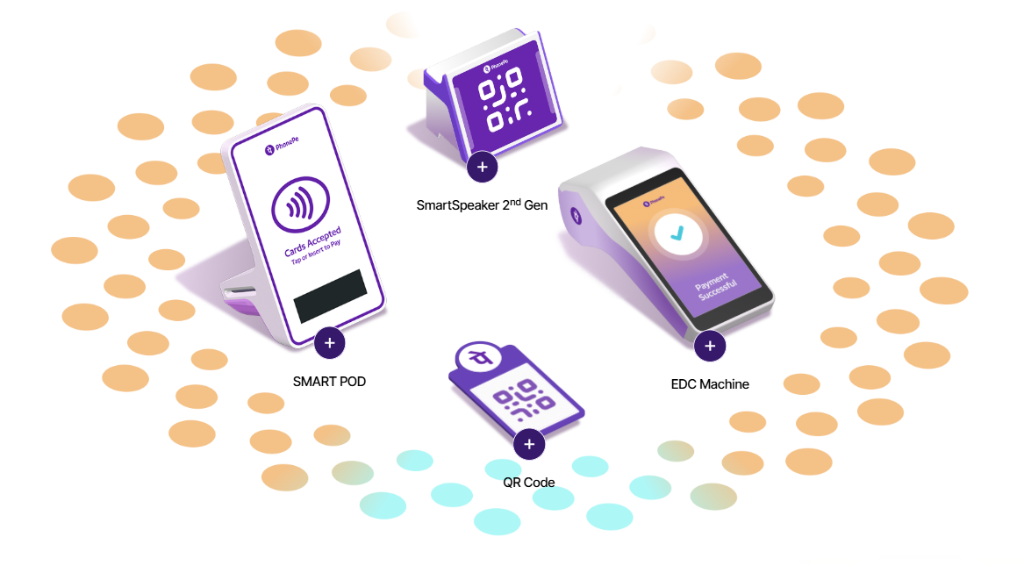
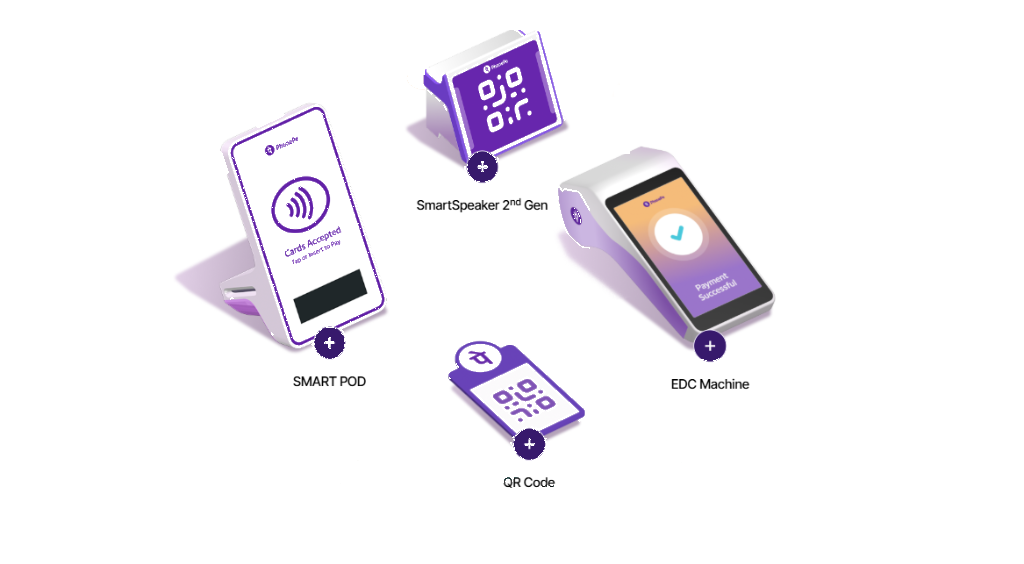
fix: complete back-side circles behind SmartSpeaker and eliminate raster double-circle ghosting

diff --git a/frontend/src/components/InteractiveHardwareStage.jsx b/frontend/src/components/InteractiveHardwareStage.jsx
@@ -77,79 +77,91 @@ export default function InteractiveHardwareStage() {
     }
   };
 
-  // Master 67 small circles extracted from the ecosystem artwork including all top and boundary circles: [cx, cy, rx, ry, isCyan]
+  // Master 74 circles forming complete concentric rings around the stage, including full back-side arc behind SmartSpeaker: [cx, cy, rx, ry]
   const ecosystemCircles = [
-    // Top faint circles around and above SmartSpeaker
-    [400.5, 25.5, 18, 14, 0],
-    [649.0, 34.9, 16, 12, 0],
-    [297.9, 42.7, 24, 14, 0],
-    [370.2, 58.9, 23, 13.5, 0],
-    [411.1, 78.2, 15, 10.5, 0], // SmartSpeaker top-left shoulder
-    [737.9, 65.6, 24, 14, 0],
-    [671.5, 71.7, 23.5, 14, 0],
-    [667.1, 69.0, 22, 13.5, 0], // SmartSpeaker top-right cluster
-    [617.8, 90.0, 16, 10.5, 0], // SmartSpeaker top-right shoulder
-    [686.4, 96.8, 22, 13, 0],   // SmartSpeaker right inner
-    [213.0, 76.7, 24.5, 14, 0],
-    [287.4, 83.2, 22, 13, 0],
-    [347.8, 95.0, 20, 12, 0],
-    [820.4, 105.4, 24, 14, 0],
-    [759.1, 108.9, 22, 13, 0],
-    [685.2, 108.8, 20, 12, 0],
-    [212.4, 121.9, 22, 13, 0],
-    [266.6, 117.7, 15, 8.5, 0],
-    [140.3, 126.2, 24, 14, 0],
-    [754.9, 145.1, 20, 12, 0],
-    [824.9, 149.7, 22, 13, 0],
-    [891.7, 161.4, 24, 14, 0],
-    [211.5, 163.3, 16, 11.5, 0],
-    [155.9, 172.4, 22, 13, 0],
-    [91.1, 187.2, 24, 14, 0],
-    [805.2, 185.7, 20, 12, 0],
-    [877.3, 204.0, 22, 13, 0],
-    [180.7, 208.0, 20, 12, 0],
-    [930.7, 225.4, 24, 14, 0],
-    [128.1, 226.5, 22, 13, 0],
-    [841.2, 235.7, 20, 12, 0],
-    [74.0, 249.9, 24, 14, 0],
-    [166.3, 259.2, 20, 12, 0],
-    [899.3, 263.0, 22, 13, 0],
-    [124.2, 285.9, 22, 13, 0],
-    [851.0, 287.4, 20, 12, 0],
-    [943.4, 290.3, 25, 15, 0],
-    [176.4, 309.9, 20, 12, 0],
-    [84.8, 316.5, 24, 14, 0],
-    [897.6, 321.1, 23, 13.5, 0],
-    [838.2, 337.1, 20, 12, 0],
-    [147.6, 342.7, 22, 13, 0],
-    [926.6, 354.9, 24, 14, 0],
-    [209.0, 359.1, 20, 12, 0],
-    [125.0, 377.8, 24, 14, 0],
-    [869.5, 376.9, 22, 13, 0],
-    [801.2, 383.8, 20, 12, 0],
-    [196.2, 396.2, 22, 13, 0],
-    [265.4, 402.6, 20, 12, 0],
-    [880.0, 411.4, 24, 14, 0],
-    [747.2, 421.4, 20, 12, 0],
-    [816.4, 423.5, 22, 13, 0],
-    [191.6, 433.2, 24, 14, 0],
-    [331.6, 434.8, 19.5, 12, 0],
-    [270.3, 441.3, 22, 13, 0],
-    [683.8, 448.5, 13, 10, 0],
-    [808.4, 461.2, 25, 14.5, 0],
-    [414.4, 460.1, 20, 12, 1],
-    [742.4, 462.6, 22, 13, 0],
-    [589.8, 466.0, 20, 12, 1],
-    [502.5, 468.7, 20, 12, 1],
-    [339.2, 468.3, 11, 9, 0],
-    [284.2, 477.1, 24, 14, 0],
-    [649.7, 487.1, 22, 13, 1],
-    [451.4, 494.5, 22, 13, 1],
-    [724.0, 493.6, 16, 12.5, 0],
-    [552.9, 497.8, 23, 13.5, 1],
-    [382.6, 505.1, 24, 14, 1],
-    [609.2, 516.3, 24, 14, 1],
-    [496.9, 521.3, 24, 14, 1]
+    // Back-side circles completing the rings behind and above SmartSpeaker:
+    [440.0, 15.0, 21, 12],
+    [480.0, 13.0, 20, 11],
+    [525.0, 13.0, 20, 11],
+    [570.0, 16.0, 20, 11],
+    [612.0, 24.0, 21, 12],
+    [412.0, 52.0, 19, 11],
+    [585.0, 48.0, 19, 11],
+    [628.0, 54.0, 20, 12],
+    [378.0, 86.0, 17, 10.5],
+    [630.0, 84.0, 17, 10.5],
+
+    // Top boundary and shoulder circles:
+    [400.5, 24.5, 23, 14],
+    [297.5, 42.5, 23, 14],
+    [370.0, 59.0, 21, 13],
+    [649.0, 35.0, 21, 13],
+    [737.5, 65.5, 24, 14],
+    [671.0, 71.5, 21, 13],
+    [213.0, 76.5, 24, 14],
+    [287.0, 83.5, 21, 13],
+    [347.5, 95.0, 18, 11],
+    [820.5, 105.5, 24, 14],
+    [759.0, 109.0, 21, 13],
+    [685.5, 109.0, 18, 11],
+    [212.5, 121.5, 21, 13],
+    [140.5, 126.5, 24, 14],
+
+    // Right side and lower-right rings:
+    [755.0, 145.0, 18, 11],
+    [825.0, 149.5, 21, 13],
+    [891.5, 161.5, 24, 14],
+    [805.5, 186.0, 18, 11],
+    [877.5, 204.0, 21, 13],
+    [930.5, 225.5, 24, 14],
+    [841.5, 236.0, 18, 11],
+    [899.5, 263.0, 21, 13],
+    [851.0, 287.0, 18, 11],
+    [943.5, 290.0, 25, 15],
+    [897.5, 321.5, 21, 13],
+    [838.5, 337.0, 18, 11],
+    [926.5, 355.0, 24, 14],
+    [869.5, 377.0, 21, 13],
+    [801.0, 383.5, 18, 11],
+    [880.5, 411.0, 24, 14],
+    [747.0, 421.5, 18, 11],
+    [816.0, 423.5, 21, 13],
+    [808.5, 461.0, 24, 14],
+    [742.5, 462.5, 21, 13],
+    [713.5, 496.0, 24, 14],
+    [675.5, 451.0, 18, 11],
+    [650.0, 487.0, 21, 13],
+    [609.5, 516.5, 24, 14],
+
+    // Bottom arc (QR Code surround):
+    [589.5, 466.0, 18, 11],
+    [548.5, 493.5, 21, 13],
+    [502.5, 472.5, 18, 11],
+    [497.0, 521.5, 24, 14],
+    [451.0, 494.5, 21, 13],
+    [414.5, 460.0, 18, 11],
+    [382.5, 505.0, 24, 14],
+    [352.5, 472.5, 21, 13],
+
+    // Left side and lower-left rings:
+    [331.5, 435.0, 18, 11],
+    [284.5, 477.0, 24, 14],
+    [270.5, 441.5, 21, 13],
+    [265.5, 403.0, 18, 11],
+    [196.5, 396.5, 21, 13],
+    [191.5, 433.0, 24, 14],
+    [209.0, 359.0, 18, 11],
+    [148.0, 342.5, 21, 13],
+    [125.0, 378.0, 24, 14],
+    [176.5, 310.0, 18, 11],
+    [124.0, 285.5, 21, 13],
+    [84.5, 316.0, 24, 14],
+    [166.5, 259.0, 18, 11],
+    [128.0, 226.5, 21, 13],
+    [74.5, 250.5, 24, 14],
+    [180.5, 208.0, 18, 11],
+    [156.0, 172.5, 21, 13],
+    [91.0, 187.0, 24, 14]
   ];
 
   return (
@@ -176,7 +188,7 @@ export default function InteractiveHardwareStage() {
           userSelect: 'none'
         }}
       >
-        {/* Master High-Res 3D Isometric Ecosystem Artwork */}
+        {/* Master High-Res 3D Isometric Ecosystem Artwork (Pristine clean devices on white) */}
         <img 
           src="/assets/images/hardware-ecosystem.png" 
           alt="Retail Hardware Ecosystem - Smart Pod, SmartSpeaker 2nd Gen, EDC Machine and QR Code"
@@ -190,7 +202,7 @@ export default function InteractiveHardwareStage() {
           }}
         />
 
-        {/* Dynamic Automatic Clockwise Orbiting Cyan RGB Beam Overlay across all 67 circles */}
+        {/* Dynamic Automatic Clockwise Orbiting 3-Color RGB Wave across all concentric circles */}
         <svg
           viewBox="0 0 1024 564"
           style={{
@@ -200,7 +212,8 @@ export default function InteractiveHardwareStage() {
             width: '100%',
             height: '100%',
             pointerEvents: 'none',
-            zIndex: 6
+            zIndex: 6,
+            overflow: 'visible'
           }}
         >
           {ecosystemCircles.map(([cx, cy, rx, ry], idx) => {
@@ -211,19 +224,19 @@ export default function InteractiveHardwareStage() {
             // Clockwise normalized progress from 0 to 1
             const normAngle = ((phi % (2 * Math.PI)) + 2 * Math.PI) % (2 * Math.PI);
             const orbitProgress = normAngle / (2 * Math.PI);
-            // 6-second continuous orbit wave
-            const delay = (orbitProgress * 6).toFixed(2);
+            // Continuous clockwise orbit wave with pre-warmed negative delay
+            const delay = -(orbitProgress * 6).toFixed(2);
 
             return (
               <ellipse
                 key={idx}
                 cx={cx}
                 cy={cy}
-                rx={rx + 2.5}
-                ry={ry + 2}
+                rx={rx}
+                ry={ry}
                 className="dynamic-ecosystem-circle"
                 style={{
-                  animationDelay: `-${delay}s`
+                  animationDelay: `${delay}s`
                 }}
               />
             );
@@ -485,47 +498,29 @@ export default function InteractiveHardwareStage() {
         @keyframes orbitingBeamGlow {
           0% {
             fill: #f4c187;
-            opacity: 0.95;
-            filter: drop-shadow(0 2px 4px rgba(244, 193, 135, 0.2));
-            transform: scale(1);
+            opacity: 0.96;
+            filter: drop-shadow(0 2px 5px rgba(244, 193, 135, 0.4));
           }
-          8% {
+          33% {
             fill: #22d3ee;
             opacity: 1;
-            filter: drop-shadow(0 0 10px rgba(34, 211, 238, 0.85));
-            transform: scale(1.06);
+            filter: drop-shadow(0 0 8px rgba(34, 211, 238, 0.65));
           }
-          16% {
-            fill: #06b6d4;
-            opacity: 1;
-            filter: drop-shadow(0 0 8px rgba(6, 182, 212, 0.65));
-            transform: scale(1.03);
-          }
-          24% {
-            fill: #a78bfa;
-            opacity: 0.95;
-            filter: drop-shadow(0 0 6px rgba(167, 139, 250, 0.45));
-            transform: scale(1);
-          }
-          34% {
-            fill: #f4c187;
-            opacity: 0.95;
-            filter: drop-shadow(0 2px 4px rgba(244, 193, 135, 0.2));
-            transform: scale(1);
+          66% {
+            fill: #a855f7;
+            opacity: 0.98;
+            filter: drop-shadow(0 0 7px rgba(168, 85, 247, 0.55));
           }
           100% {
             fill: #f4c187;
-            opacity: 0.95;
-            filter: drop-shadow(0 2px 4px rgba(244, 193, 135, 0.2));
-            transform: scale(1);
+            opacity: 0.96;
+            filter: drop-shadow(0 2px 5px rgba(244, 193, 135, 0.4));
           }
         }
 
         .dynamic-ecosystem-circle {
           animation: orbitingBeamGlow 6s ease-in-out infinite;
-          transform-box: fill-box;
-          transform-origin: center;
-          will-change: fill, filter, transform;
+          will-change: fill, filter;
         }
 
         @media (max-width: 768px) {
